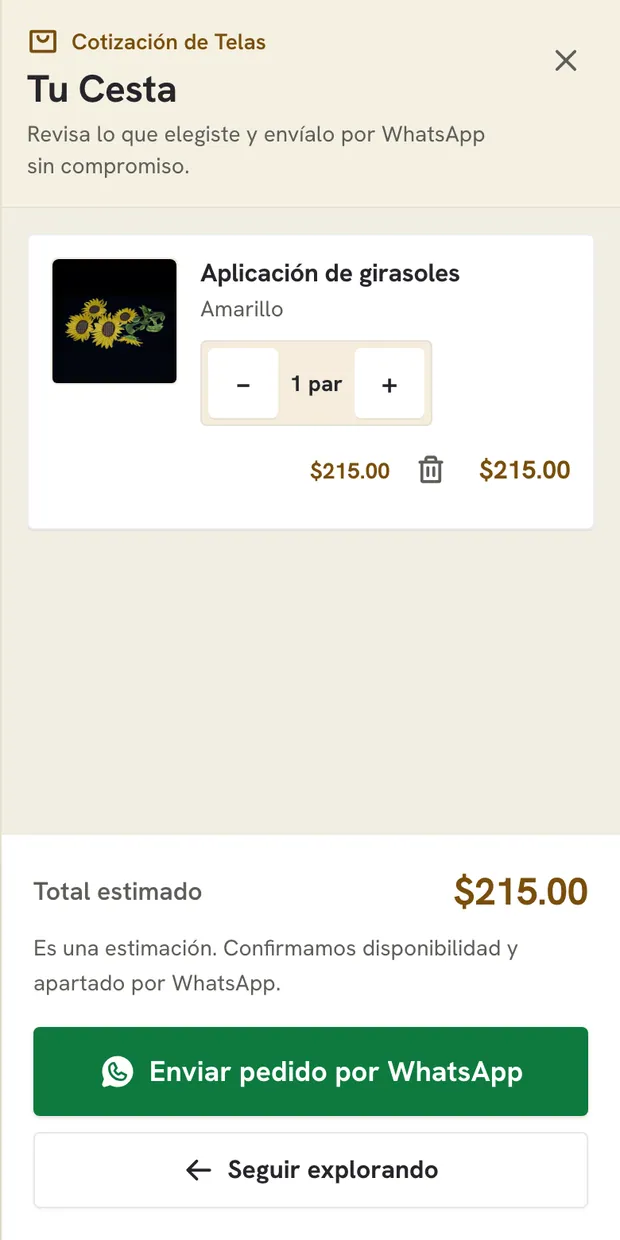
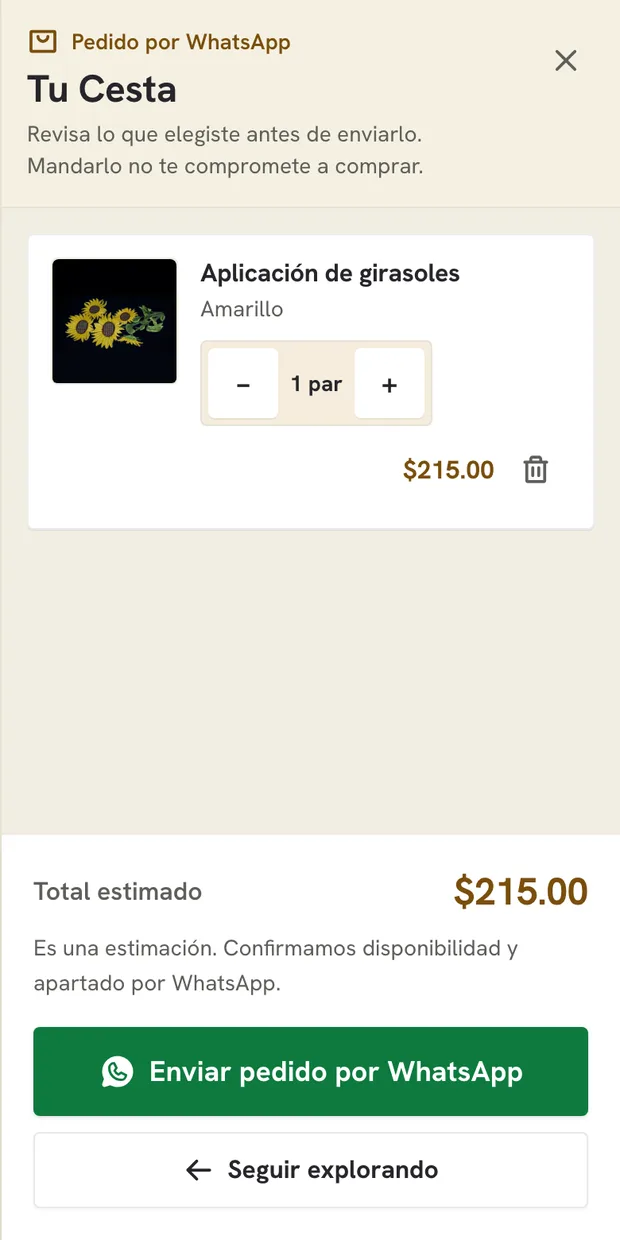
feat(tutorial): botones de la ficha en el paso 2 y captura nueva de la cesta
Con el fondo blanco ya en main, la ficha ofrece "Acercar para ver mejor" y
"Ver en fondo blanco". El paso 2 del tutorial los enseña bajo la foto y los
explica; "si aparece" porque el segundo solo sale en fotos con máscara.

La captura de la cesta de la guía de clientas se rehízo tras el PR 8, que
cambió los textos de esa pantalla y quitó el importe repetido.

Changed region(s): [[0.0306, 0.0919, 0.7968, 0.1532], [0.4903, 0.3677, 0.9194, 0.3984], [0.1226, 0.0306, 0.4597, 0.0613]]

diff --git a/components/tutorial/Maquetas.tsx b/components/tutorial/Maquetas.tsx
@@ -4,6 +4,7 @@ import { ColorSwatch } from "@/components/ColorSwatch";
 import { TelaImage } from "@/components/TelaImage";
 import {
   MagnifyingGlass,
+  MagnifyingGlassPlus,
   Minus,
   Plus,
   ShoppingBag,
@@ -221,12 +222,21 @@ export function MaquetaBuscar() {
   );
 }
 
+/** Los botones que la ficha pone bajo la foto (`ControlesFoto`), en chiquito. */
+const BOTON_FICHA =
+  "flex items-center justify-center gap-1 rounded border border-outline-variant bg-surface-container-lowest px-1 py-1 text-center text-[9px] font-semibold leading-tight text-ink-display";
+
 export function MaquetaColor() {
   return (
     <Marco>
       <div className="flex items-center gap-3">
-        <div className="w-[42%] shrink-0">
+        <div className="flex w-[42%] shrink-0 flex-col gap-1.5">
           <Foto ruta={MARIPOSA.foto} />
+          <span className={BOTON_FICHA}>
+            <MagnifyingGlassPlus className="h-3 w-3 shrink-0" />
+            Acercar para ver mejor
+          </span>
+          <span className={BOTON_FICHA}>Ver en fondo blanco</span>
         </div>
 
         <div className="flex min-w-0 flex-1 flex-col justify-center gap-1.5">

diff --git a/components/tutorial/TutorialModal.tsx b/components/tutorial/TutorialModal.tsx
@@ -31,9 +31,9 @@ const SLIDES: Slide[] = [
   },
   {
     maqueta: MaquetaColor,
-    titulo: "Elige tu color",
+    titulo: "Velo de cerca y elige tu color",
     texto:
-      "Toca un producto para abrirlo. Si hay varios colores, elige el tuyo en “Tonos disponibles”.",
+      "Toca un producto para abrirlo. Usa “Acercar para ver mejor” para ver el detalle y, si aparece, “Ver en fondo blanco”. Si hay varios colores, elige el tuyo en “Tonos disponibles”.",
   },
   {
     maqueta: MaquetaCantidad,
